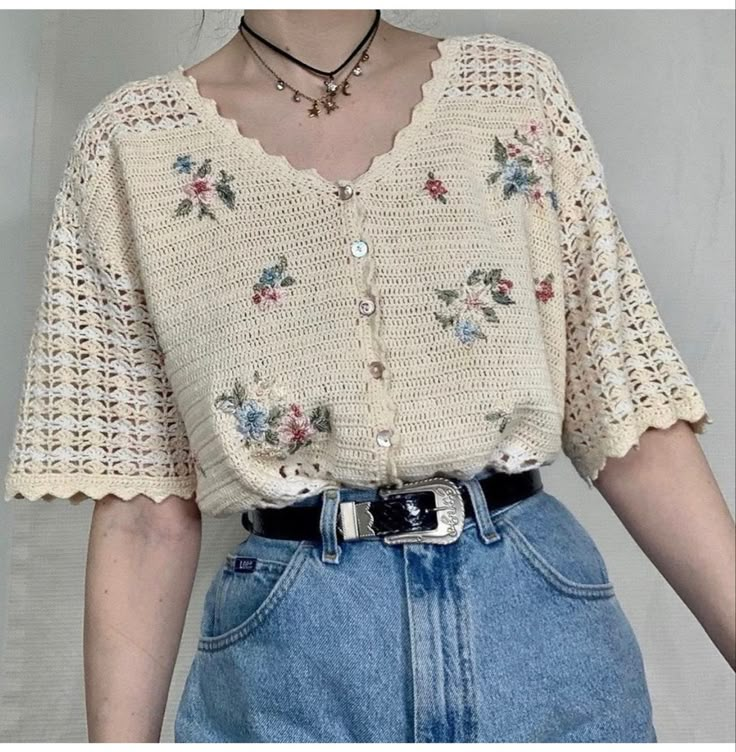
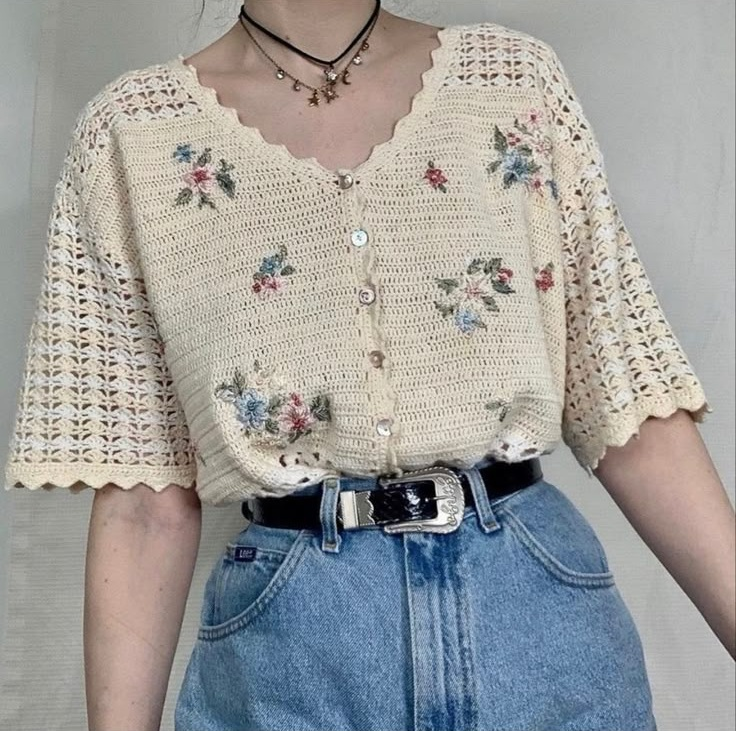
Create: página de início e componente do menu lateral

diff --git a/lacasa-rosa/app/inicio/page.tsx b/lacasa-rosa/app/inicio/page.tsx
@@ -1,5 +1,90 @@
+"use client";
+
+import { useState } from "react";
+import { Poppins } from "next/font/google";
+import { Major_Mono_Display } from "next/font/google";
+import { IoSearchOutline } from "react-icons/io5";
+import { BsListStars } from "react-icons/bs";
+import { FaUser } from "react-icons/fa6";
+import { BsFillHandbagFill } from "react-icons/bs";
+import Menu from "../components/menu";
+// import { MdCancel } from "react-icons/md";
+// import { FaGear } from "react-icons/fa6";
+// import { BsCircleSquare } from "react-icons/bs";
+// import { BsFillBagFill } from "react-icons/bs";
+
+const poppins = Poppins({
+  subsets: ["latin"],
+  weight: ["300", "400", "500", "700"],
+});
+
+const majorMono = Major_Mono_Display({
+  subsets: ["latin"],
+    weight: "400",
+});
+
 export default function Inicio() {
+    const [aberto, setAberto] = useState(false);
+    
     return(
-        <div>Início</div>
+        <div className={poppins.className + " w-screen h-screen bg-[#F2EBD5] overflow-x-hidden"}>
+            <header className="bg-[#F25EA3] flex justify-center items-center gap-65 p-10">
+                <button onClick={() => setAberto(true)} className="bg-[#f2c84b]/70 text-[#F2594B] w-20 h-20 rounded-full shadow-md flex items-center justify-center">
+                    <BsListStars size={60} className="absolute mt-0.5 opacity-15 text-black"/>
+                    <BsListStars size={60} />
+                </button>
+
+                <h1 className={majorMono.className + " text-4xl mt-2 mb-5"}>O que você está buscando?</h1>
+
+                <button className="bg-[#f2c84b]/70 text-[#F2594B] w-20 h-20 rounded-full shadow-md flex items-center justify-center">
+                    <FaUser size={50} className="absolute mt-0.5 opacity-10 text-black" />
+                    <FaUser size={50} />
+                </button>
+            </header>
+
+            <Menu aberto={aberto} fechar={() => setAberto(false)} />
+
+            <div className="text-[#F2EBD5] bg-[#f25ea3ad] w-full flex text-center justify-center relative">
+                <input placeholder="Pesquise aqui..." type="text" className="outline-none focus:outline-none p-1 placeholder:text-[#F2EBD5] w-150 text-center" />
+                <IoSearchOutline size={20} className="text-[#F2EBD5] absolute right-100 top-1/2 -translate-y-1/2" />
+            </div>
+
+            <div className="text-black text-sm flex justify-center gap-44 mt-25 mb-10">
+                <div className="flex flex-col text-center">
+                    <img src="/images/blusinha-croche.jpeg" className="w-50 h-50 mb-4 border-2 border-[#F25EA3] shadow-lg rounded-xl" />
+                    <p>Blusinha Crochê Charlotte</p>
+                    <p>R$ 29,90</p>
+                </div>
+                <div className="border-2 border-[#F25EA3] w-50 h-50 rounded-xl shadow-lg"></div>
+                <div className="border-2 border-[#F25EA3] w-50 h-50 rounded-xl shadow-lg"></div>
+                <div className="border-2 border-[#F25EA3] w-50 h-50 rounded-xl shadow-lg"></div>
+            </div>
+            <div className="border border-[#f2c84b]/30 p-10 text-black text-sm flex justify-center gap-44">
+                <div className="flex flex-col text-center">
+                    <img src="/images/shorts-almond.jpeg" className="w-50 h-50 mb-4 border-2 border-[#F25EA3] shadow-lg rounded-xl" />
+                    <p>Shorts Almond</p>
+                    <p>R$ 39,90</p>
+                </div>
+                <div className="border-2 border-[#F25EA3] w-50 h-50 rounded-xl shadow-lg"></div>
+                <div className="border-2 border-[#F25EA3] w-50 h-50 rounded-xl shadow-lg"></div>
+                <div className="border-2 border-[#F25EA3] w-50 h-50 rounded-xl shadow-lg"></div>
+            </div>
+            <div className="absolute bg-[#F25EA3] text-[#F2EBD5] w-25 h-25 bottom-10 right-15 shadow-md rounded-full flex items-center justify-center">
+                <BsFillHandbagFill size={60} />
+            </div>
+
+            {/* <div className="w-screen h-screen absolute top-0 left-0 bg-black/50">
+                <div className="absolute bg-[#F2EBD5]/75 text-[#F2594B] rounded-r-lg text-lg font-bold h-screen w-80 top-0 left-0 flex justify-center">
+                    <MdCancel size={45} className="absolute top-5 right-5" />
+                    <div className="mt-40 flex flex-col">
+                        <p className="flex items-center gap-2"><FaGear /> <span>Painel Administrativo</span></p>
+                        <div className="mt-4 mb-4 border-b border-[#F2594B]"></div>
+                        <a href="#" className="mb-5 flex items-center gap-2"><BsCircleSquare /> <span className="hover:underline">Estoque</span></a>
+                        <a href="#" className="mb-5 flex items-center gap-2"><FaUser /> <span className="hover:underline">Usuários</span></a>
+                        <a href="#" className="mb-5 flex items-center gap-2"><BsFillBagFill /> <span className="hover:underline">Vendas Efetuadas</span> </a>
+                    </div>
+                </div>
+            </div> */}
+        </div>
     )
 }

diff --git a/lacasa-rosa/app/components/menu.tsx b/lacasa-rosa/app/components/menu.tsx
@@ -1,0 +1,50 @@
+import { FaUser } from "react-icons/fa6";
+import { MdCancel } from "react-icons/md";
+import { FaGear } from "react-icons/fa6";
+import { BsCircleSquare } from "react-icons/bs";
+import { BsFillBagFill } from "react-icons/bs";
+
+type MenuProps = {
+    aberto: boolean;
+    fechar: () => void;
+}
+
+export default function Menu({ aberto, fechar }: MenuProps) {
+    return(
+        <div  className={`
+                        fixed inset-0 z-50
+                        ${aberto ? "" : "pointer-events-none"}
+                        `}
+        >
+            {/* fundo escuro */}
+            <div  className={`
+                absolute inset-0 bg-black/50
+                transition-opacity duration-300
+
+                ${aberto ? "opacity-100" : "opacity-0 pointer-events-none"}
+                `}
+            />
+            {/* menu lateral */}
+            <div className={`
+                            absolute top-0 left-0 h-screen w-80 text-[#F2594B] text-lg font-bold flex justify-center
+                             bg-[#F2EBD5]/75 backdrop-blur-xs rounded-r-lg transition-transform duration-300 ease-out
+
+                            ${aberto ? "translate-x-0" : "-translate-x-full"}
+                            `}
+            >
+                <button onClick={fechar}>
+                    <MdCancel size={45} className="absolute top-5 right-5" />
+                </button>
+                <div className="mt-40 flex flex-col">
+                    <p className="flex items-center gap-2"><FaGear /> <span>Painel Administrativo</span></p>
+                    <div className="mt-4 mb-4 border-b border-[#F2594B]"></div>
+                    <a href="#" className="mb-5 flex items-center gap-2"><BsCircleSquare /> <span className="hover:underline">Estoque</span></a>
+                    <a href="#" className="mb-5 flex items-center gap-2"><FaUser /> <span className="hover:underline">Usuários</span></a>
+                    <a href="#" className="mb-5 flex items-center gap-2"><BsFillBagFill /> <span className="hover:underline">Vendas Efetuadas</span> </a>
+                </div>
+            </div>
+        </div>
+    )
+}
+
+//   className="absolute bg-[#F2EBD5]/75 text-[#F2594B] rounded-r-lg text-lg font-bold h-screen w-80 top-0 left-0 flex justify-center"

diff --git a/lacasa-rosa/app/layout.tsx b/lacasa-rosa/app/layout.tsx
@@ -13,8 +13,8 @@ const geistMono = Geist_Mono({
 });
 
 export const metadata: Metadata = {
-  title: "Create Next App",
-  description: "Generated by create next app",
+  title: "LaCasa Rosa",
+  description: "",
 };
 
 export default function RootLayout({
